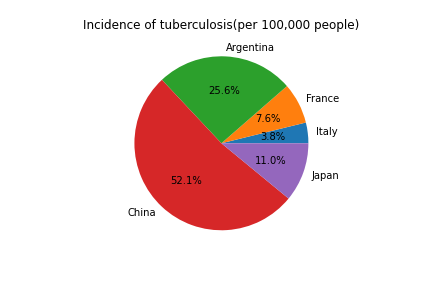
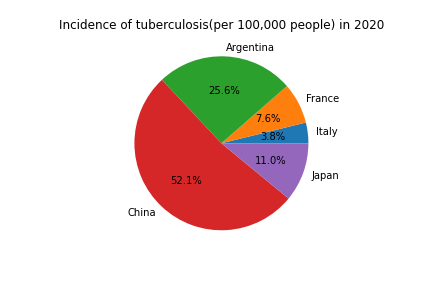
Add files via upload
code changes

Changed region(s): [[0.1204, 0.0625, 0.9028, 0.125]]

diff --git a/Assignmentapplied1.py b/Assignmentapplied1.py
@@ -83,7 +83,7 @@ def piegraph(data3):
     plt.figure()
     plt.pie(pie_data["2020"], labels=pie_data["Country"], autopct="%1.1f%%")
     # Set title for plot
-    plt.title("Incidence of tuberculosis(per 100,000 people)")
+    plt.title("Incidence of tuberculosis(per 100,000 people) in 2020")
     # Saves pie graph figure as png
     plt.savefig("Prevelance of tuberculosis piegraph.png")
     # Function to show the plot
